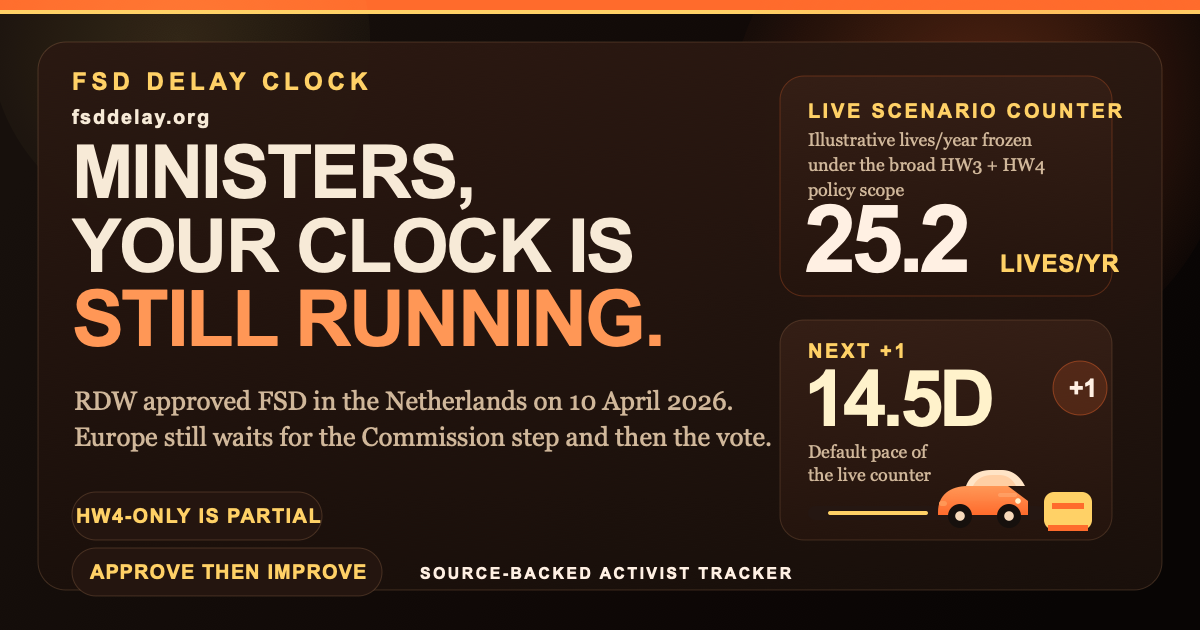
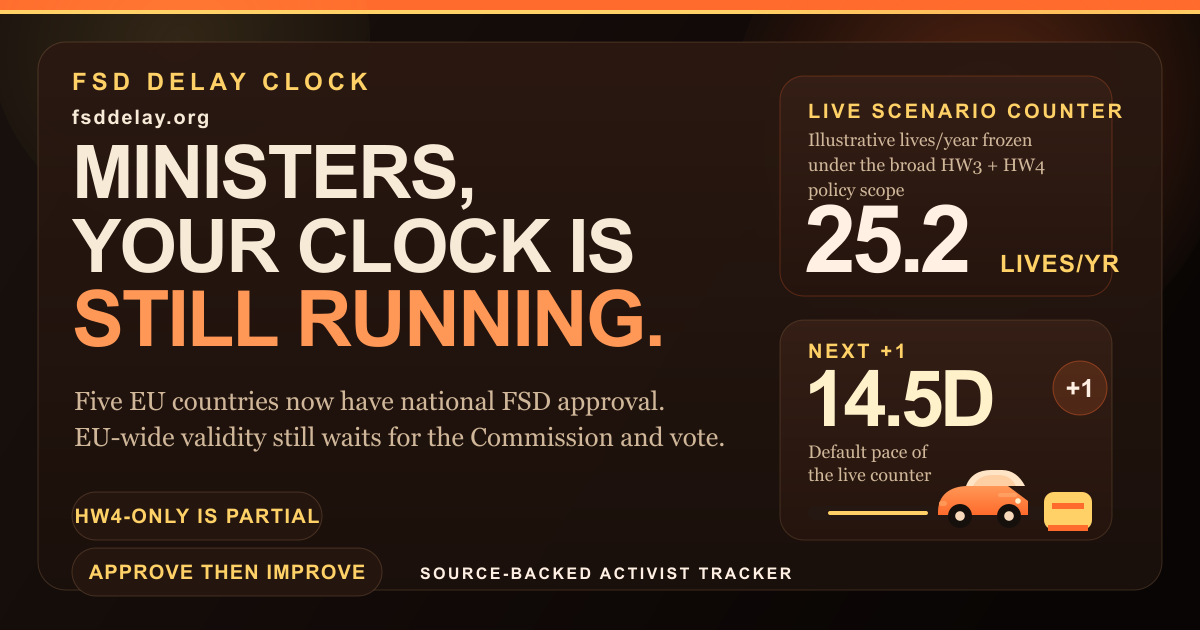
Add Belgium FSD approval to tracker

diff --git a/src/data/eu.ts b/src/data/eu.ts
@@ -44,7 +44,7 @@ export const SITE_DOMAIN = "fsddelay.org";
 export const SITE_DESCRIPTION =
 	"A source-backed tracker for Europe's FSD approval bottleneck, with a live scenario clock based on official EU road-safety and EV-stock data.";
 
-export const TODAY_ISO = "2026-04-21";
+export const TODAY_ISO = "2026-06-10";
 export const DUTCH_APPROVAL_DATE = "2026-04-10";
 export const PROCESS_STARTED_APPROX = "2024-10-01";
 export const DUTCH_APPROVAL_MOMENT = "2026-04-10T00:00:00Z";
@@ -53,7 +53,7 @@ export const REPORTED_TCMV_PRESENTATION_DATE = "2026-05-05";
 export const REPORTED_TCMV_EARLIEST_VOTE_DATE = "2026-06-30";
 
 export const EU_ROAD_DEATHS_2025 = 19_400;
-export const APPROVED_MEMBER_STATES = 1;
+export const APPROVED_MEMBER_STATES = 5;
 
 export const defaultScenario: Scenario = {
 	teslaShareWithinBev: 20,
@@ -116,12 +116,12 @@ export const hardwareExplainerCards: HardwareExplainerCard[] = [
 ];
 
 export const countries: CountryRecord[] = [
-	{ code: "BE", name: "Belgium", fatalities2023: 501, fatalitiesPerMillion2023: 43, bevFleetShare2024: 4.981, population2025: 11883495, approval: "pending-eu-vote", leadBody: "National government vote in EU committee" },
+	{ code: "BE", name: "Belgium", fatalities2023: 501, fatalitiesPerMillion2023: 43, bevFleetShare2024: 4.981, population2025: 11883495, approval: "national-approval", leadBody: "Flemish approval / Belgian territory" },
 	{ code: "BG", name: "Bulgaria", fatalities2023: 525, fatalitiesPerMillion2023: 81, bevFleetShare2024: 0.572, population2025: 6437360, approval: "pending-eu-vote", leadBody: "National government vote in EU committee" },
 	{ code: "CZ", name: "Czechia", fatalities2023: 502, fatalitiesPerMillion2023: 46, bevFleetShare2024: 0.547, population2025: 10909500, approval: "pending-eu-vote", leadBody: "National government vote in EU committee" },
-	{ code: "DK", name: "Denmark", fatalities2023: 162, fatalitiesPerMillion2023: 27, bevFleetShare2024: 12.023, population2025: 5992734, approval: "pending-eu-vote", leadBody: "National government vote in EU committee" },
+	{ code: "DK", name: "Denmark", fatalities2023: 162, fatalitiesPerMillion2023: 27, bevFleetShare2024: 12.023, population2025: 5992734, approval: "national-approval", leadBody: "Danish Road Traffic Authority" },
 	{ code: "DE", name: "Germany", fatalities2023: 2839, fatalitiesPerMillion2023: 34, bevFleetShare2024: 3.348, population2025: 83577140, approval: "pending-eu-vote", leadBody: "National government vote in EU committee" },
-	{ code: "EE", name: "Estonia", fatalities2023: 59, fatalitiesPerMillion2023: 43, bevFleetShare2024: 0.933, population2025: 1369995, approval: "pending-eu-vote", leadBody: "National government vote in EU committee" },
+	{ code: "EE", name: "Estonia", fatalities2023: 59, fatalitiesPerMillion2023: 43, bevFleetShare2024: 0.933, population2025: 1369995, approval: "national-approval", leadBody: "Estonian Transport Administration" },
 	{ code: "IE", name: "Ireland", fatalities2023: 180, fatalitiesPerMillion2023: 34, bevFleetShare2024: 3.051, population2025: 5440278, approval: "pending-eu-vote", leadBody: "National government vote in EU committee" },
 	{ code: "EL", name: "Greece", fatalities2023: 646, fatalitiesPerMillion2023: 62, bevFleetShare2024: 0.298, population2025: 10372335, approval: "pending-eu-vote", leadBody: "National government vote in EU committee" },
 	{ code: "ES", name: "Spain", fatalities2023: 1806, fatalitiesPerMillion2023: 38, bevFleetShare2024: 0.78, population2025: 49128297, approval: "pending-eu-vote", leadBody: "National government vote in EU committee" },
@@ -130,7 +130,7 @@ export const countries: CountryRecord[] = [
 	{ code: "IT", name: "Italy", fatalities2023: 3039, fatalitiesPerMillion2023: 52, bevFleetShare2024: 0.676, population2025: 58943464, approval: "pending-eu-vote", leadBody: "National government vote in EU committee" },
 	{ code: "CY", name: "Cyprus", fatalities2023: 34, fatalitiesPerMillion2023: 36, bevFleetShare2024: 0.512, population2025: 982966, approval: "pending-eu-vote", leadBody: "National government vote in EU committee" },
 	{ code: "LV", name: "Latvia", fatalities2023: 138, fatalitiesPerMillion2023: 73, bevFleetShare2024: 1.172, population2025: 1860565, approval: "pending-eu-vote", leadBody: "National government vote in EU committee" },
-	{ code: "LT", name: "Lithuania", fatalities2023: 159, fatalitiesPerMillion2023: 56, bevFleetShare2024: 0.91, population2025: 2890664, approval: "pending-eu-vote", leadBody: "National government vote in EU committee" },
+	{ code: "LT", name: "Lithuania", fatalities2023: 159, fatalitiesPerMillion2023: 56, bevFleetShare2024: 0.91, population2025: 2890664, approval: "national-approval", leadBody: "Lithuanian transport authorities" },
 	{ code: "LU", name: "Luxembourg", fatalities2023: 26, fatalitiesPerMillion2023: 39, bevFleetShare2024: 7.134, population2025: 681973, approval: "pending-eu-vote", leadBody: "National government vote in EU committee" },
 	{ code: "HU", name: "Hungary", fatalities2023: 472, fatalitiesPerMillion2023: 49, bevFleetShare2024: 1.412, population2025: 9539502, approval: "pending-eu-vote", leadBody: "National government vote in EU committee" },
 	{ code: "MT", name: "Malta", fatalities2023: 16, fatalitiesPerMillion2023: 30, bevFleetShare2024: 2.209, population2025: 574250, approval: "pending-eu-vote", leadBody: "National government vote in EU committee" },
@@ -146,7 +146,7 @@ export const countries: CountryRecord[] = [
 ];
 
 export const institutionTrack = [
-	{ stage: "RDW", title: "The Dutch authority already moved", body: "RDW says it issued type approval for FSD Supervised on 10 April 2026 and that the system can now be used in the Netherlands." },
+	{ stage: "National approvals", title: "Five countries have now moved", body: "The Netherlands moved first, then Lithuania, Estonia, Denmark, and Belgium each accepted or issued national approval for FSD Supervised." },
 	{ stage: "European Commission", title: "The EU-wide step is still upstream", body: "RDW says the application for permission across the entire European Union still needs to be submitted to the European Commission." },
 	{ stage: "Member states", title: "The bottleneck is now a committee vote", body: "RDW says EU-wide validity requires a majority vote from member states in the responsible committee." },
 ];
@@ -155,7 +155,11 @@ export const timeline = [
 	{ date: "Approx. October 2024", title: "Joint testing starts", body: "RDW said in March 2026 that Tesla and RDW had begun an intensive joint testing programme roughly 18 months earlier." },
 	{ date: "24 Mar 2026", title: "EU death toll reminder", body: "The European Commission reported around 19,400 road deaths across the EU in 2025." },
 	{ date: "10 Apr 2026", title: "Dutch approval lands", body: "RDW said the approval is valid in the Netherlands now, with possible later admittance across the EU." },
-	{ date: "After 10 Apr 2026", title: "EU-wide use still blocked", body: "RDW says the next steps are Commission handling plus a member-state vote. Until then, Dutch approval is not EU-wide approval." },
+	{ date: "20 May 2026", title: "Lithuania follows", body: "Lithuania recognized the Dutch provisional type approval and became the second European market to permit FSD Supervised." },
+	{ date: "29 May 2026", title: "Estonia follows", body: "Estonia recognized the RDW approval, making it the third European country with national approval." },
+	{ date: "9 Jun 2026", title: "Denmark approves", body: "The Danish Road Traffic Authority accepted the Dutch provisional type approval for use in Denmark." },
+	{ date: "10 Jun 2026", title: "Belgium approves", body: "Flemish Mobility Minister Annick De Ridder announced that she signed the approval for FSD Supervised on Belgian roads." },
+	{ date: "After 10 Jun 2026", title: "EU-wide use still blocked", body: "National approvals now cover five countries, but RDW says EU-wide validity still needs Commission handling plus a member-state vote." },
 ];
 
 export const methodology = [
@@ -179,6 +183,10 @@ export const sources = [
 	{ label: "RDW response following a message from Tesla", href: "https://www.rdw.nl/en/news/2026/rdw-response-following-a-message-from-tesla", note: "RDW said the final assessment phase followed roughly 18 months of joint testing." },
 	{ label: "Tesla recall: Enable B-Pillar Blindness Detection", href: "https://www.tesla.com/en_jo/support/recall-enable-b-pillar-blindness-detection", note: "Tesla says UNECE R79 required a customer-facing alert and blocked lane changes during a blinded-camera condition, while Tesla also says overlapping cameras meant an unreasonable risk to safety was not present." },
 	{ label: "RDW explanation of European type approval Tesla with provisional validity in the Netherlands", href: "https://www.rdw.nl/en/news/2026/rdw-explanation-of-european-type-approval-tesla-with-provisional-validity-in-the-netherlands", note: "RDW says Dutch validity began on 10 April 2026, EU-wide use still needs a Commission step plus a member-state vote, and that the U.S. and EU builds are not comparable one-to-one because Europe uses different and stricter pre-approval requirements." },
+	{ label: "ETSC: Lithuania and Estonia authorise Tesla FSD", href: "https://etsc.eu/lithuania-and-estonia-authorise-tesla-fsd-with-belgium-and-greece-fast-tracking/", note: "ETSC reported that Lithuania recognized the Dutch approval and that Estonia followed on 29 May 2026." },
+	{ label: "Danish Road Traffic Authority: FSD Supervised provisionally approved in Denmark", href: "https://www.fstyr.dk/nyheder/2026/jun/teslas-foererassistentsystem-fsd-supervised-er-foreloebigt-godkendt-i-danmark", note: "The Danish authority says FSD Supervised may now be used in Denmark after it accepted the Dutch provisional type approval." },
+	{ label: "Annick De Ridder on X: Belgium approval announcement", href: "https://x.com/AnnickDeRidder", note: "On 10 June 2026, Flemish Mobility Minister Annick De Ridder announced she had signed the approval for Tesla FSD Supervised on Belgian roads." },
+	{ label: "Annick De Ridder on LinkedIn: Flemish approval reaches Belgian territory", href: "https://nl.linkedin.com/posts/annickderidder_vlaanderen-wil-ruimte-geven-aan-innovatie-activity-7460916906657742848-lsVe", note: "De Ridder previously stated that a Flemish homologation would automatically mean homologation for the whole Belgian territory." },
 	{ label: "EU sets no Tesla FSD vote for May 5, Dutch to brief in 20-minute slot", href: "https://eletric-vehicles.com/tesla/eu-sets-no-tesla-fsd-vote-for-may-5-dutch-to-brief-in-20-minute-slot/", note: "Secondary reporting published 17 April 2026, citing a European Commission draft agenda screenshot, says 5 May 2026 is an Article 39 update slot and that the next scheduled TCMV meeting is 30 June 2026." },
 	{ label: "European Commission: EU road deaths drop by 3% in 2025", href: "https://transport.ec.europa.eu/news-events/news/eu-road-deaths-drop-3-2025-2026-03-24_en", note: "The Commission reported around 19,400 road deaths across the EU in 2025." },
 	{ label: "Eurostat demo_gind", href: "https://ec.europa.eu/eurostat/api/dissemination/statistics/1.0/data/demo_gind?indic_de=JAN&time=2025", note: "Population on 1 January 2025." },